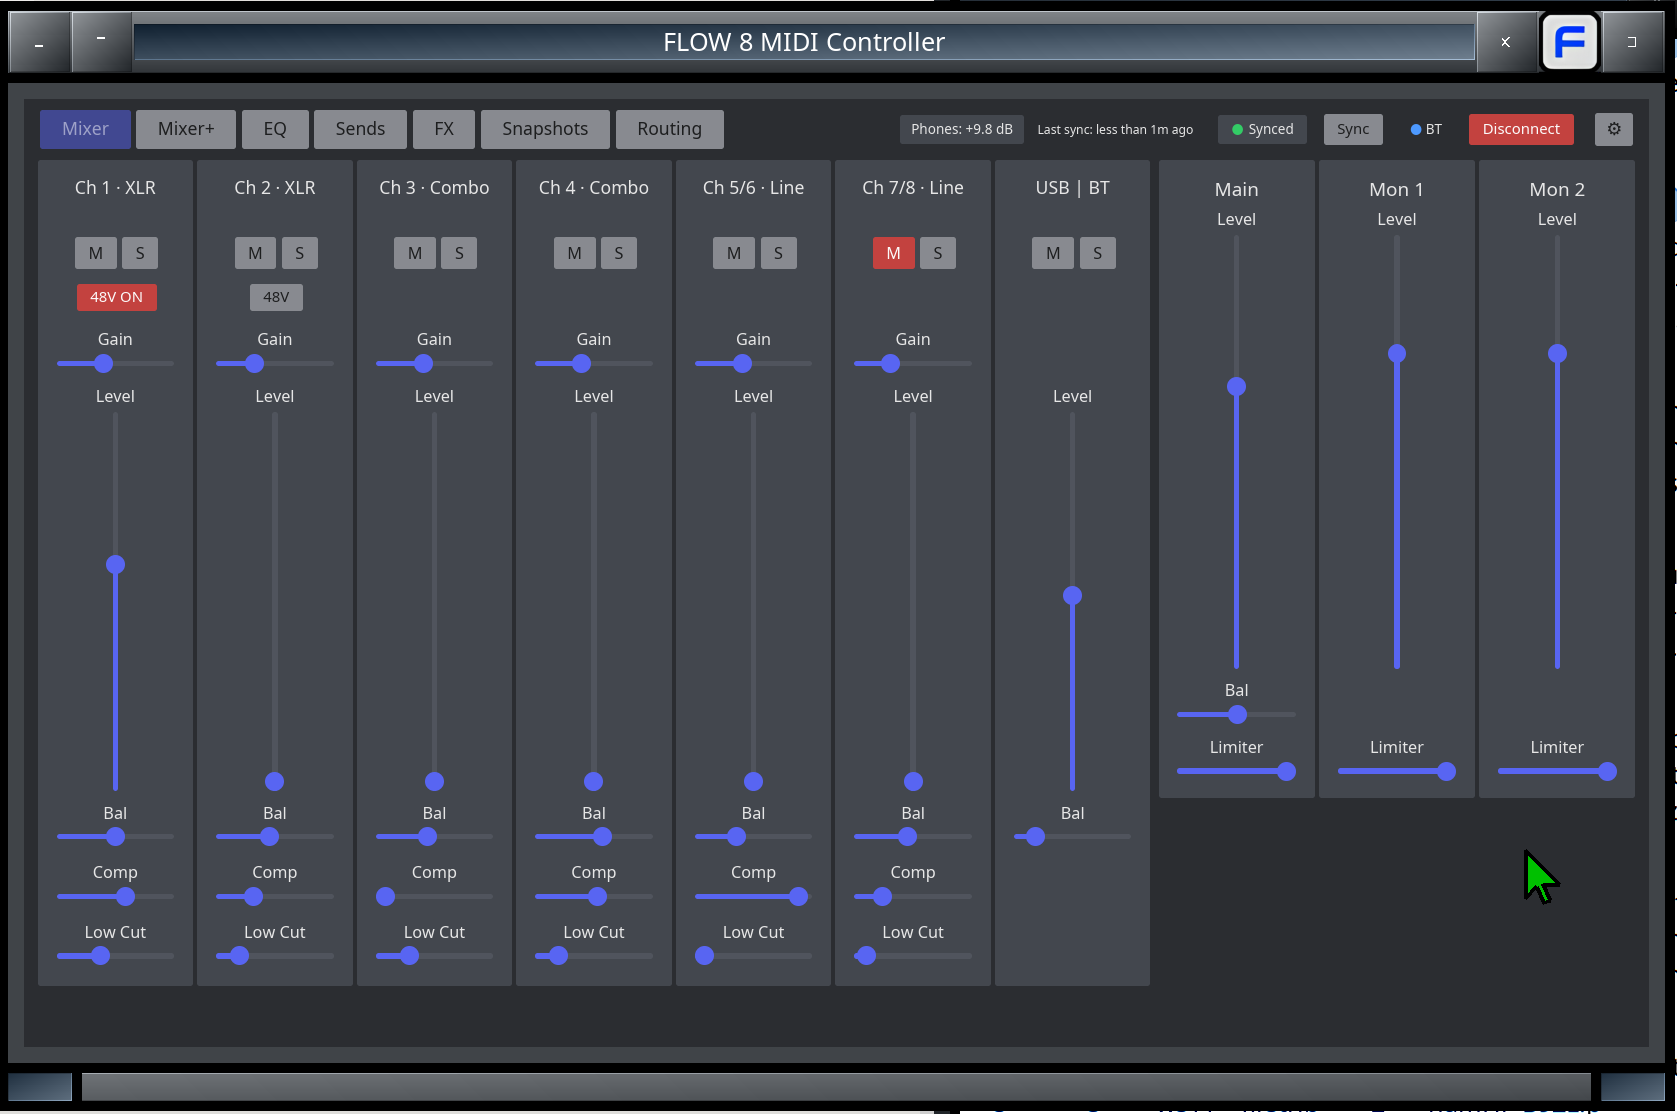
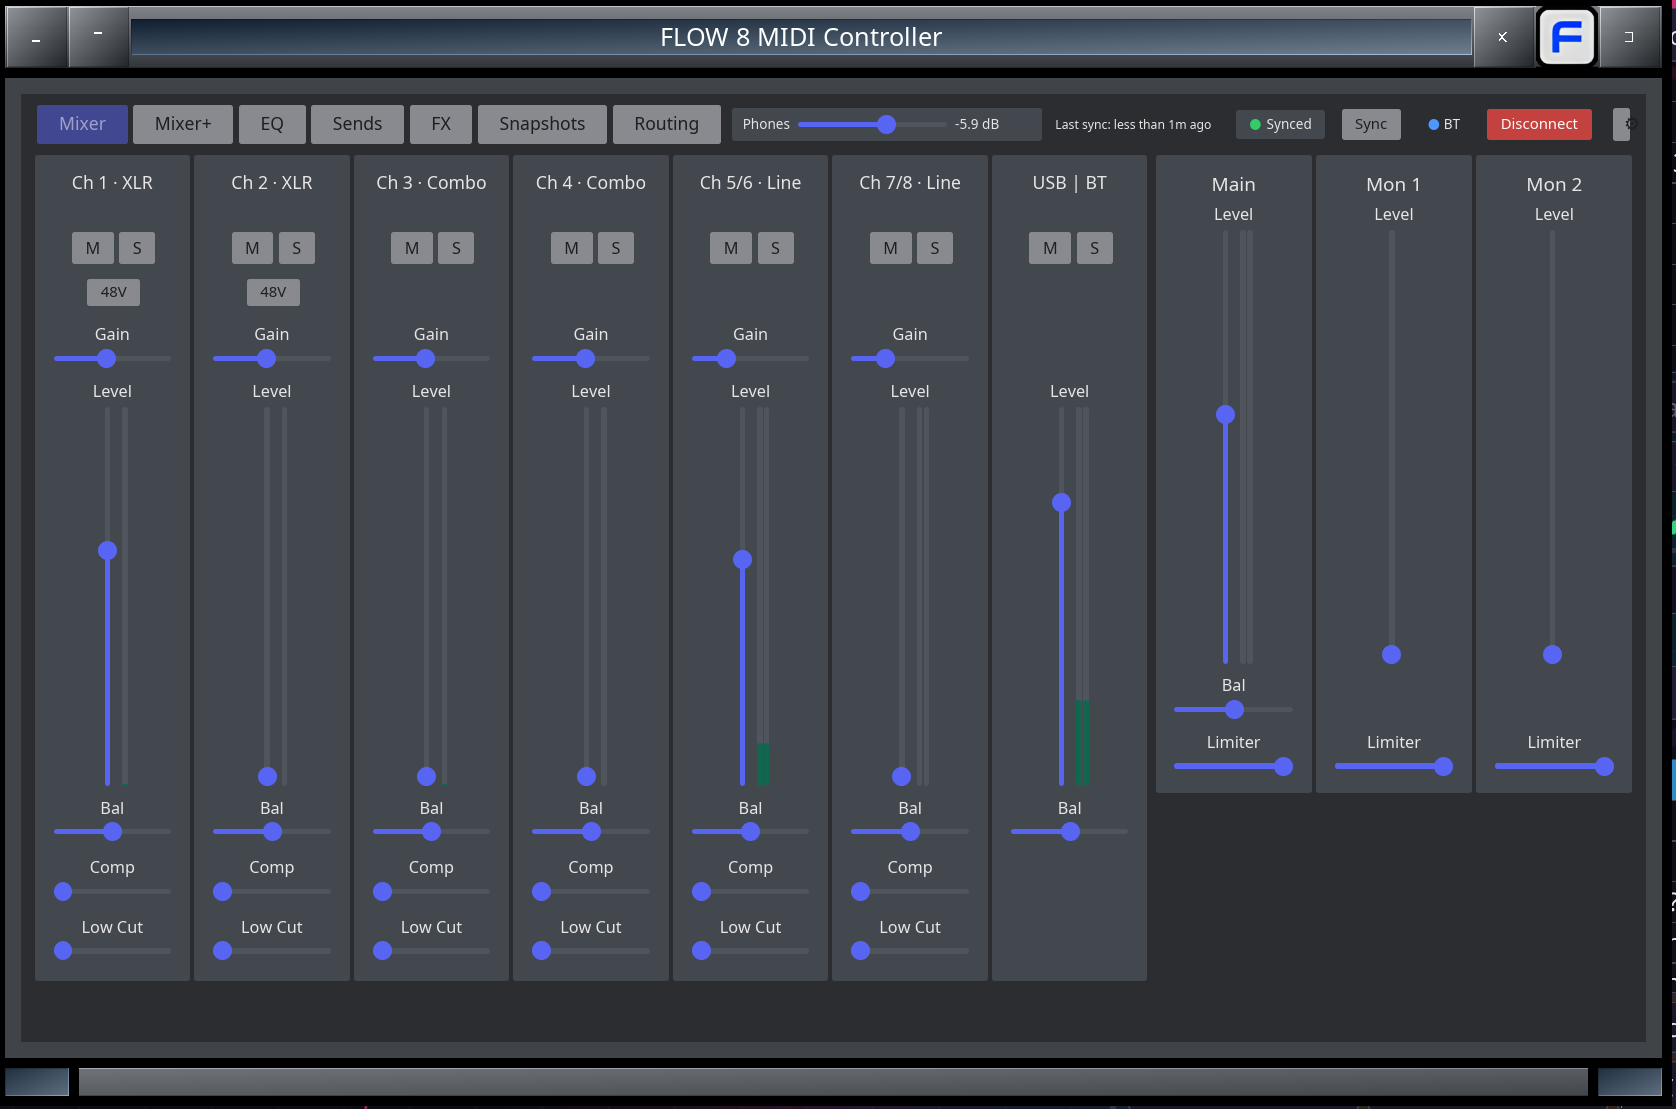
README: new Mixer screenshot with live meters and PHONES slider

diff --git a/README.md b/README.md
@@ -28,7 +28,7 @@ Connect the FLOW 8 by USB and start the app. Bluetooth is used automatically to 
 
 | | |
 |---|---|
-| **Mixer** — levels, mute/solo, gain, comp, low cut, 48V | **Routing** *(new in 2.0)* — USB, phones, monitor, BT/USB, FX returns, preferences |
+| **Mixer** — levels, mute/solo, gain, comp, low cut, 48V, live meters, PHONES slider | **Routing** *(new in 2.0)* — USB, phones, monitor, BT/USB, FX returns, preferences |
 | <img alt="Mixer" src="./resources/screenshots/Flow-8-Mixer.png" width="100%"> | <img alt="Routing" src="./resources/screenshots/Flow-8-Routing.png" width="100%"> |
 | **EQ** — 4-band per channel, 9-band + limiter per bus | **Sends** — Monitor 1/2 and FX 1/2 per channel |
 | <img alt="EQ" src="./resources/screenshots/Flow-8-EQ.png" width="100%"> | <img alt="Sends" src="./resources/screenshots/Flow-8-Sends.png" width="100%"> |
